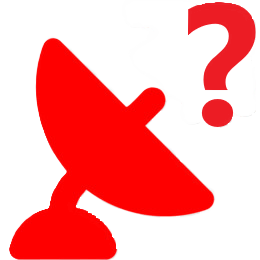
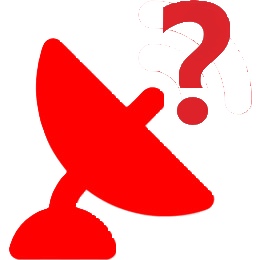
Version 1.0a : improve textbox rendering and sizing.

diff --git a/src/openbexi_timeline.js b/src/openbexi_timeline.js
@@ -2,7 +2,7 @@
  * This notice must be untouched at all times.
  *
  * Copyright (c) 2024 arcazj All rights reserved.
- *     OpenBEXI Timeline version 1.0
+ *     OpenBEXI Timeline version 1.0a
  * The latest version is available at https://github.com/arcazj/openbexi_timeline.
  *
  *     This program is free software; you can redistribute it and/or
@@ -934,7 +934,7 @@ function OB_TIMELINE() {
                 "<div class=\"ob_form1\">\n" +
                 "</form>\n" +
                 "<form>\n" +
-                "<legend> version 1.0</legend>\n" +
+                "<legend> version 1.0a</legend>\n" +
                 "<br>" + "<br>" +
                 "</form>\n" +
                 "<a  href='https://github.com/arcazj/openbexi_timeline'>https://github.com/arcazj/openbexi_timeline</a >\n" +
@@ -2255,10 +2255,9 @@ function OB_TIMELINE() {
                             if (sortByValue && !ob_layouts.has(sortByValue)) {
                                 ob_layouts.add(sortByValue);
                             }
-
-                            const firstLayoutLength = [...ob_layouts][0]?.length || 0;
+                            const firstLayoutLength = [...ob_layouts][ob_layouts.size - 1]?.length || 0;
                             if (firstLayoutLength > max_name_length) {
-                                max_name_length = firstLayoutLength + 1;
+                                max_name_length = firstLayoutLength;
                             }
                         } catch (error) {
                             //console.error(error);
@@ -2614,8 +2613,8 @@ function OB_TIMELINE() {
 
         this.ob_scene[ob_scene_index].add(ob_model_name);
         this.ob_scene[ob_scene_index].objects.push(ob_model_name);
-        this.add_text_sprite(ob_scene_index, ob_model_name, text, 60, 0, 10, false,
-            24, "normal", "normal", textColor, 'Arial');
+        this.add_text_sprite(ob_scene_index, ob_model_name, text, 0, 0, 10, false,
+            24, "normal", "bold", textColor, 'Arial');
 
     };
 
@@ -2703,6 +2702,7 @@ function OB_TIMELINE() {
 
         const currentScene = this.ob_scene[ob_scene_index];
         const bands = currentScene.bands;
+        let coef = 1;
 
         bands.forEach(band => {
             this.add_band(
@@ -2711,13 +2711,13 @@ function OB_TIMELINE() {
             );
 
             if (band.layout_name !== "NONE") {
-                const adjustedX = -(currentScene.width / 2) +
-                    (parseInt(band.layouts.max_name_length) *
-                        parseInt(band.layouts.max_name_length) / 2);
                 const adjustedZ = parseInt(band.z) + 50;
                 const adjustedDepth = parseInt(band.depth) + 1;
-                let adjustedWidth = parseInt(band.layouts.max_name_length) *
-                    parseInt(band.fontSizeInt) * 2.2;
+                if (parseInt(band.layouts.max_name_length) <= 4) coef = 1.4;
+                if (parseInt(band.layouts.max_name_length) >= 12) coef = .8;
+                if (parseInt(band.layouts.max_name_length) >= 22) coef = .7;
+                let adjustedWidth = parseInt(band.layouts.max_name_length) * 24 * coef;
+                const adjustedX = -(currentScene.width / 2) + (adjustedWidth / 2);
                 const luminanceColor = this.hex_Luminance(band.color, undefined);
 
                 if (adjustedWidth > 0)
@@ -4115,6 +4115,7 @@ function OB_TIMELINE() {
         ob_sprite.fontStyle = "fontStyle";
         ob_sprite.fontWeight = fontWeight;
         ob_sprite.borderRadius = 0;
+
         if (textBackgroundColor !== false) {
             ob_sprite.borderColor = "#bd0202";
             ob_sprite.borderWidth = 1;
@@ -4125,15 +4126,8 @@ function OB_TIMELINE() {
             ob_sprite.color = color;
         }
 
-
-        let ob_x = x;
-        if (this.ob_scene[ob_scene_index].ob_camera_type !== "Orthographic") {
-            ob_x -= 32;
-            z = text.toString().length * 3.2;
-        }
-
-        ob_sprite.position.set(ob_x, y, z);
-        ob_sprite.pos_x = ob_x;
+        ob_sprite.position.set(x, y, z);
+        ob_sprite.pos_x = x;
         ob_sprite.pos_y = y;
         ob_sprite.pos_z = z;
 
